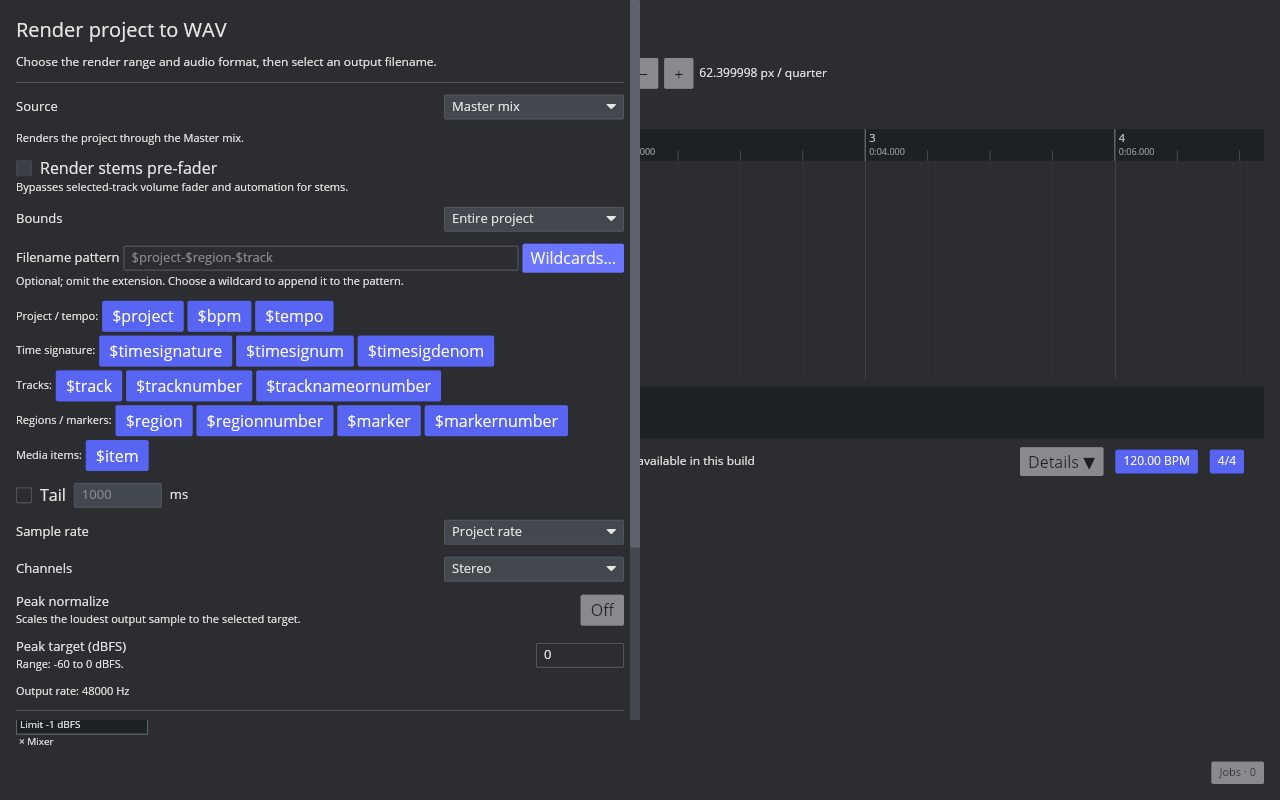
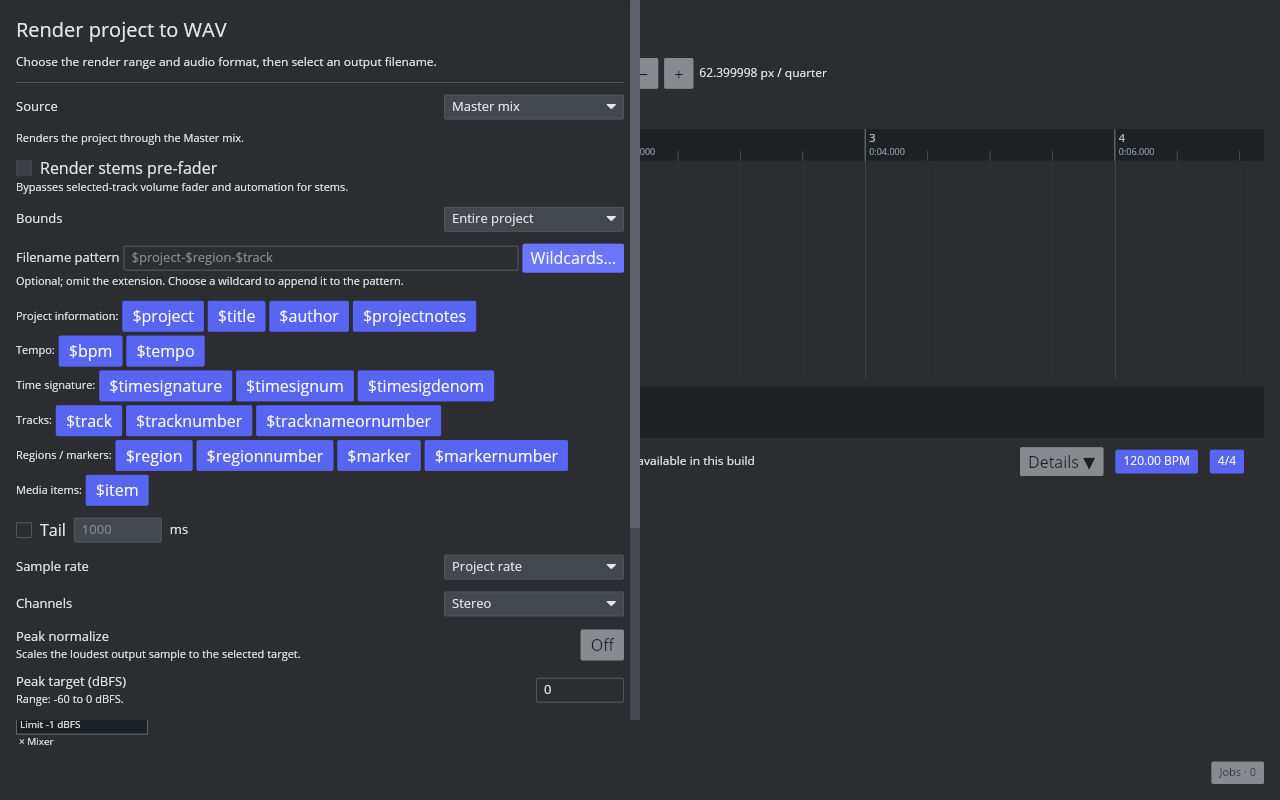
feat(render): add project metadata wildcards

Changed region(s): [[0.0, 0.375, 0.4688, 0.7188], [0.3438, 0.625, 0.5, 0.8438], [0.0, 0.75, 0.2188, 0.9062]]

diff --git a/crates/aaadaw/src/app/audio_export.rs b/crates/aaadaw/src/app/audio_export.rs
@@ -44,6 +44,9 @@ pub(crate) enum RenderSource {
 #[derive(Clone, Copy, Debug, Eq, PartialEq)]
 pub(crate) enum RenderFilenameWildcard {
     Project,
+    Title,
+    Author,
+    ProjectNotes,
     Tempo,
     TimeSignature,
     TimeSigNum,
@@ -60,8 +63,11 @@ pub(crate) enum RenderFilenameWildcard {
 }
 
 impl RenderFilenameWildcard {
-    pub(crate) const ALL: [Self; 14] = [
+    pub(crate) const ALL: [Self; 17] = [
         Self::Project,
+        Self::Title,
+        Self::Author,
+        Self::ProjectNotes,
         Self::Bpm,
         Self::Tempo,
         Self::TimeSignature,
@@ -80,6 +86,9 @@ impl RenderFilenameWildcard {
     pub(crate) const fn token(self) -> &'static str {
         match self {
             Self::Project => "$project",
+            Self::Title => "$title",
+            Self::Author => "$author",
+            Self::ProjectNotes => "$projectnotes",
             Self::Tempo => "$tempo",
             Self::TimeSignature => "$timesignature",
             Self::TimeSigNum => "$timesignum",
@@ -733,16 +742,16 @@ fn expand_render_filename_pattern(
         .and_then(|track_id| project.tracks().iter().find(|track| track.id() == track_id))
         .map(|track| {
             if track.name().is_empty() {
-                track_number_text.as_str()
+                format!("Track {track_number_text}")
             } else {
-                track.name()
+                track.name().to_owned()
             }
         })
         .unwrap_or_else(|| {
             if settings.source == aaadaw_app::ProjectWavRenderSource::MasterMix {
-                "Master"
+                "Master".to_owned()
             } else {
-                ""
+                String::new()
             }
         });
     let item_name = match settings.source {
@@ -820,13 +829,16 @@ fn expand_render_filename_pattern(
             .to_ascii_lowercase();
         match token.as_str() {
             "project" => result.push_str(project_name),
+            "title" => result.push_str(&project.project_notes().title),
+            "author" => result.push_str(&project.project_notes().author),
+            "projectnotes" => result.push_str(&project.project_notes().text),
             "tempo" => result.push_str(&bpm_text),
             "timesignature" => result.push_str(&time_signature_text),
             "timesignum" => result.push_str(&time_signature.numerator().to_string()),
             "timesigdenom" => result.push_str(&time_signature.denominator().to_string()),
             "track" => result.push_str(track_name),
             "tracknumber" => result.push_str(&track_number_text),
-            "tracknameornumber" => result.push_str(track_name_or_number),
+            "tracknameornumber" => result.push_str(&track_name_or_number),
             "region" => result.push_str(region.map_or("", |region| region.name())),
             "regionnumber" => result.push_str(&region_number_text),
             "marker" => result.push_str(marker.map_or("", |(_, marker)| marker.name())),
@@ -2413,7 +2425,7 @@ mod tests {
     use super::super::offline_job_queue::OfflineJobQueue;
     use super::super::offline_job_queue::QueuedOfflineJob;
     use super::*;
-    use aaadaw_core::DawAction;
+    use aaadaw_core::{DawAction, ProjectNotes};
 
     #[test]
     fn render_filename_patterns_expand_native_wildcard_contexts_safely() {
@@ -2447,6 +2459,16 @@ mod tests {
                 name: "Start".to_owned(),
             })
             .expect("filename fixture marker should be inserted");
+        project
+            .apply(DawAction::SetProjectNotes {
+                notes: ProjectNotes {
+                    title: "Session title".to_owned(),
+                    author: "Render author".to_owned(),
+                    text: "Mix notes".to_owned(),
+                    ..ProjectNotes::default()
+                },
+            })
+            .expect("filename fixture project notes should be set");
         let settings = |source| aaadaw_app::ProjectWavRenderSettings {
             master_ceiling: aaadaw_engine::MasterOutputCeiling::default(),
             export_options: aaadaw_app::WavExportOptions::default(),
@@ -2468,7 +2490,7 @@ mod tests {
                 )),
                 output.clone(),
             )],
-            "$project-$region-$regionnumber-$marker-$markernumber-$track-$tracknumber-$tracknameornumber-$bpm-$tempo-$timesignature-$timesignum-$timesigdenom",
+            "$project-$title-$author-$projectnotes-$region-$regionnumber-$marker-$markernumber-$track-$tracknumber-$tracknameornumber-$bpm-$tempo-$timesignature-$timesignum-$timesigdenom",
             &project,
             project_path,
         )
@@ -2476,7 +2498,7 @@ mod tests {
         assert_eq!(
             track_output[0].1,
             Path::new(
-                "/renders/session-Intro-01-Start-01-Drums_Kit-01-Drums_Kit-120-120-4-4-4-4.wav"
+                "/renders/session-Session title-Render author-Mix notes-Intro-01-Start-01-Drums_Kit-01-Drums_Kit-120-120-4-4-4-4.wav"
             )
         );
 
@@ -2494,6 +2516,30 @@ mod tests {
         )
         .expect("region and item tokens should resolve");
         assert_eq!(item_output[0].1, Path::new("/renders/Intro-item_01.wav"));
+
+        project
+            .apply(DawAction::CreateTrack {
+                index: 1,
+                name: String::new(),
+            })
+            .expect("an unnamed filename fixture track should be created");
+        let unnamed_track_id = project.tracks()[1].id();
+        let unnamed_track_output = apply_render_filename_pattern(
+            vec![(
+                settings(aaadaw_app::ProjectWavRenderSource::SelectedTrackStem(
+                    unnamed_track_id,
+                )),
+                Path::new("/renders/base.wav").to_owned(),
+            )],
+            "$tracknameornumber",
+            &project,
+            project_path,
+        )
+        .expect("unnamed tracks should resolve to their numbered display name");
+        assert_eq!(
+            unnamed_track_output[0].1,
+            Path::new("/renders/Track 02.wav")
+        );
     }
 
     #[test]
@@ -2502,6 +2548,9 @@ mod tests {
             RenderFilenameWildcard::ALL.map(RenderFilenameWildcard::token),
             [
                 "$project",
+                "$title",
+                "$author",
+                "$projectnotes",
                 "$bpm",
                 "$tempo",
                 "$timesignature",

diff --git a/crates/aaadaw/src/app/view/render.rs b/crates/aaadaw/src/app/view/render.rs
@@ -204,24 +204,28 @@ pub(super) fn view(app: &App) -> Element<'_, Message> {
         if app.render_dialog.wildcard_menu_open {
             column![
                 wildcard_group_row(
-                    "Project / tempo:",
-                    RenderFilenameWildcard::ALL.into_iter().take(3),
+                    "Project information:",
+                    RenderFilenameWildcard::ALL.into_iter().take(4),
+                ),
+                wildcard_group_row(
+                    "Tempo:",
+                    RenderFilenameWildcard::ALL.into_iter().skip(4).take(2),
                 ),
                 wildcard_group_row(
                     "Time signature:",
-                    RenderFilenameWildcard::ALL.into_iter().skip(3).take(3),
-                ),
-                wildcard_group_row(
-                    "Tracks:",
                     RenderFilenameWildcard::ALL.into_iter().skip(6).take(3),
                 ),
                 wildcard_group_row(
+                    "Tracks:",
+                    RenderFilenameWildcard::ALL.into_iter().skip(9).take(3),
+                ),
+                wildcard_group_row(
                     "Regions / markers:",
-                    RenderFilenameWildcard::ALL.into_iter().skip(9).take(4),
+                    RenderFilenameWildcard::ALL.into_iter().skip(12).take(4),
                 ),
                 wildcard_group_row(
                     "Media items:",
-                    RenderFilenameWildcard::ALL.into_iter().skip(13),
+                    RenderFilenameWildcard::ALL.into_iter().skip(16),
                 ),
             ]
             .spacing(tokens::SPACING_XS)

diff --git a/docs/verification/reaper-parity/render-filename-patterns.md b/docs/verification/reaper-parity/render-filename-patterns.md
@@ -2,10 +2,10 @@
 
 Linux REAPER 7.82 / Default 7 places a `File name` pattern field and `Wildcards` button in the Render window. The captured selected-item case uses `$region-$item` and resolves to `bounds-ui-Region 2-item_02.wav`; the reference dialog and measured output are archived in [the native screenshot](images/render-selected-items-native.png) and [the output record](render-selected-items-native.tsv). The native Region Render Matrix fixture uses `$region-$track` and emits `Intro-Master.wav`, `Intro-Drums.wav`, `Intro-Guitar.wav`, and `Verse-Bass.wav`.
 
-AAADAW now provides an optional filename-pattern field in its Render window and a grouped `Wildcards…` picker immediately below it. Its 14 implemented tokens are `$project`, `$bpm`, `$tempo`, `$timesignature`, `$timesignum`, `$timesigdenom`, `$track`, `$tracknumber`, `$tracknameornumber`, `$region`, `$regionnumber`, `$marker`, `$markernumber`, and `$item`. Selecting one appends it to the end of the pattern and closes the picker. A chosen output path supplies the directory and extension; a blank pattern retains the existing generated names. The resolver sanitizes characters unsafe in file names and rejects patterns that resolve multiple jobs to the same name before queueing. The Render job still publishes through the existing atomic batch writer.
+AAADAW now provides an optional filename-pattern field in its Render window and a grouped `Wildcards…` picker immediately below it. Its 17 implemented tokens are `$project`, `$title`, `$author`, `$projectnotes`, `$bpm`, `$tempo`, `$timesignature`, `$timesignum`, `$timesigdenom`, `$track`, `$tracknumber`, `$tracknameornumber`, `$region`, `$regionnumber`, `$marker`, `$markernumber`, and `$item`. These project metadata values come from the existing Project Notes model. Selecting a token appends it to the end of the pattern and closes the picker. A chosen output path supplies the directory and extension; a blank pattern retains the existing generated names. The resolver sanitizes characters unsafe in file names and rejects patterns that resolve multiple jobs to the same name before queueing. The Render job still publishes through the existing atomic batch writer.
 
-The [AAADAW filename-field capture](fixtures/render-filename-pattern-aaadaw.png), [expanded picker capture](fixtures/render-filename-pattern-wildcards-aaadaw.png), and [track-token insertion capture](fixtures/render-filename-pattern-wildcard-insert-aaadaw.png) were taken from the rebuilt desktop binary. The reproducible [capture script](../../../scripts/reaper_parity/capture-render-filename-pattern-aaadaw.sh) drives the visible Render command with Ctrl+Alt+R; set `AAADAW_OPEN_WILDCARDS=1` to capture the expanded picker, or `AAADAW_INSERT_WILDCARD=tracknumber` to click the visible token and capture the resulting field. Native UI probes accept `AAADAW_REAPER_WILDCARD_PATTERN` to replace their default `$region-$item` or `$marker-$item` pattern. Two additional native captures verify expansion in context: `$tracknumber-$tracknameornumber-$regionnumber-$tempo-$timesignature-$timesignum-$timesigdenom` produces `01-Render fixture-02-120-4-4-4-4.wav` for the selected item, and `$markernumber` produces `01.wav` for the first marker. See the [native context capture](fixtures/render-wildcards-context-native.png) and [native marker capture](fixtures/render-wildcards-marker-native.png). Screenshot hashes, native inputs, implementation tokens, and regression results are in the [fixture manifest](fixtures/render-filename-pattern-aaadaw.tsv).
+The [AAADAW filename-field capture](fixtures/render-filename-pattern-aaadaw.png), [expanded picker capture](fixtures/render-filename-pattern-wildcards-aaadaw.png), and [track-token insertion capture](fixtures/render-filename-pattern-wildcard-insert-aaadaw.png) were taken from the rebuilt desktop binary. The reproducible [capture script](../../../scripts/reaper_parity/capture-render-filename-pattern-aaadaw.sh) drives the visible Render command with Ctrl+Alt+R; set `AAADAW_OPEN_WILDCARDS=1` to capture the expanded picker, or `AAADAW_INSERT_WILDCARD=tracknumber` to click the visible token and capture the resulting field. Native UI probes accept `AAADAW_REAPER_WILDCARD_PATTERN` to replace their default pattern, and the selected-item probe can set Project Settings title, author, notes, and the fixture track name through its environment overrides and documented API fields. Native captures verify `$tracknumber-$tracknameornumber-$regionnumber-$tempo-$timesignature-$timesignum-$timesigdenom` as `01-Render fixture-02-120-4-4-4-4.wav`, `$markernumber` as `01.wav`, `$title-$author-$projectnotes` as `Wildcard Session-Render Author-Mix notes.wav`, and an empty track name with `$tracknameornumber` as `Track 01.wav`. See the [native context capture](fixtures/render-wildcards-context-native.png), [native marker capture](fixtures/render-wildcards-marker-native.png), [native metadata capture](fixtures/render-wildcards-metadata-native.png), and [unnamed-track capture](fixtures/render-wildcards-unnamed-track-native.png). Screenshot hashes, native inputs, implementation tokens, and regression results are in the [fixture manifest](fixtures/render-filename-pattern-aaadaw.tsv).
 
-The regression resolves the native `$region-$track` matrix pattern to the same four native target names, renders those jobs through AAADAW's offline audio renderer, and compares every PCM24 sample to the matching REAPER output. A second test resolves `$region-$item` to the observed `Intro-item_01.wav` form. The context-expansion regression checks the added track, region, tempo, and time-signature variables; separate cases cover `$project`, `$marker`, `$item`, `$bpm`, safe-name conversion, blank-pattern fallback, unknown literal tokens, and duplicate-name rejection. The queue test sets `$project-$track` through the Render message and checks that queued stem paths use the expanded project and track names; it also verifies duplicate names leave the queue unchanged. The picker regression covers all 14 visible tokens, appending the selected token, and closing the menu. See the manifest for current build, screenshot hashes, and validation counts.
+The regression resolves the native `$region-$track` matrix pattern to the same four native target names, renders those jobs through AAADAW's offline audio renderer, and compares every PCM24 sample to the matching REAPER output. A second test resolves `$region-$item` to the observed `Intro-item_01.wav` form. The context-expansion regression checks Project Notes title/author/text plus track, region, tempo, and time-signature values; an unnamed track resolves `$tracknameornumber` to the native `Track 02` form. The native unnamed-track render preview shows `Track 01.wav`. Separate cases cover `$project`, `$marker`, `$item`, `$bpm`, safe-name conversion, blank-pattern fallback, unknown literal tokens, and duplicate-name rejection. The queue test sets `$project-$track` through the Render message and checks that queued stem paths use the expanded project and track names; it also verifies duplicate names leave the queue unchanged. The picker regression covers all 17 visible tokens, appending the selected token, and closing the menu. See the manifest for current build, screenshot hashes, and validation counts.
 
-This does not complete REAPER Wildcards parity. The picker exposes a tested subset of the native token set and appends at the pattern end; insertion at the caret or over a selection, project/region/marker/item notes and name expressions, folders/parent/FX, positions and timecode, recording names, output format/channels, date/time/unique IDs, computer/user values, REAPER's full ordering and escaping rules, pattern presets and cross-launch persistence, native collision prompts, and remaining source/range combinations are open. The native context captures directly verify track number/name, region number, tempo, time signature components, and marker number. `$marker` text/name expansion and many source-dependent values still need native comparisons. `RENDER-WILDCARDS-001`, `RENDER-SOURCE-001`, and `UI-028` remain `in_progress`.
+This does not complete REAPER Wildcards parity. The picker exposes a tested subset of the native token set and appends at the pattern end; insertion at the caret or over a selection, `$projectnotes(name)` and named-note parsing, project directory variants, region/marker/item note and name expressions, folders/parent/FX, positions and timecode, recording names, output format/channels, date/time/unique IDs, computer/user values, REAPER's full ordering and escaping rules, pattern presets and cross-launch persistence, native collision prompts, and remaining source/range combinations are open. The native context captures directly verify track number/name, region number, tempo, time signature components, marker number, and project title/author/notes. `$marker` text/name expansion and many source-dependent values still need native comparisons. `RENDER-WILDCARDS-001`, `RENDER-SOURCE-001`, and `UI-028` remain `in_progress`.

diff --git a/docs/verification/reaper-parity/render-source.md b/docs/verification/reaper-parity/render-source.md
@@ -20,7 +20,7 @@ AAADAW stores a Master-mix boolean and ordered TrackId list per project region i
 
 The Render Source menu now offers `Region Render Matrix` with All/Selected Project Regions bounds. The existing atomic batch-render queue builds one output for each assigned Master row and one for each assigned track row, and stores per-region ranges in each job. The native Linux REAPER 7.82 render action produced four outputs for this fixture: `Intro-Master.wav`, `Intro-Drums.wav`, `Intro-Guitar.wav`, and `Verse-Bass.wav`; unassigned target/region pairs produced no files. All four files were 48 kHz stereo PCM24 with 96,000 frames. The [source generator](../../../scripts/reaper_parity/generate-region-render-matrix-sources.py), [ReaScript render probe](../../../scripts/reaper_parity/probe-region-render-matrix-render.lua), [native output table](fixtures/region-render-matrix-render-native.tsv), and [PCM fixtures](fixtures/region-render-matrix-render/) preserve the setup, metadata, hashes, and payloads. An AAADAW regression renders the same four target jobs and compares every PCM payload byte-for-byte with the corresponding native fixture; output format, frame count, and sample values also match exactly.
 
-The Render window now has an optional filename-pattern field and a grouped `Wildcards…` picker for 14 implemented tokens: `$project`, `$bpm`, `$tempo`, `$timesignature`, `$timesignum`, `$timesigdenom`, `$track`, `$tracknumber`, `$tracknameornumber`, `$region`, `$regionnumber`, `$marker`, `$markernumber`, and `$item`; choosing a token appends it to the pattern. A native selected-item Render probe confirms `$tracknumber-$tracknameornumber-$regionnumber-$tempo-$timesignature-$timesignum-$timesigdenom` resolves to `01-Render fixture-02-120-4-4-4-4.wav`, and the marker probe confirms `$markernumber` resolves to `01.wav`. For the tested `$region-$track` pattern, AAADAW emits the native names `Intro-Master.wav`, `Intro-Drums.wav`, `Intro-Guitar.wav`, and `Verse-Bass.wav`; its offline renderer still matches all four native PCM payloads byte-for-byte. The native `$region-$item` case resolves to `bounds-ui-Region 2-item_02.wav`, and AAADAW resolves the same token pair to the observed item-name form. Blank patterns keep the existing generated output names. Caret/selection insertion, the complete token and escaping rules, preset persistence, and more source/range combinations remain open; see [filename wildcard verification](render-filename-patterns.md). The simple fixture confirms the tested track signal and Master sum, but not pre/post-fader settings, automation, folders/sends, or FX routing. Those gaps keep `RENDER-SOURCE-001` and `PROJECT-REGIONS-001` `in_progress`.
+The Render window now has an optional filename-pattern field and a grouped `Wildcards…` picker for 17 implemented tokens: `$project`, `$title`, `$author`, `$projectnotes`, `$bpm`, `$tempo`, `$timesignature`, `$timesignum`, `$timesigdenom`, `$track`, `$tracknumber`, `$tracknameornumber`, `$region`, `$regionnumber`, `$marker`, `$markernumber`, and `$item`; choosing a token appends it to the pattern. The existing Project Notes title, author, and text fields drive the three new metadata variables. A native selected-item Render probe confirms `$title-$author-$projectnotes` resolves to `Wildcard Session-Render Author-Mix notes.wav`; `$tracknumber-$tracknameornumber-$regionnumber-$tempo-$timesignature-$timesignum-$timesigdenom` resolves to `01-Render fixture-02-120-4-4-4-4.wav`, and the marker probe confirms `$markernumber` resolves to `01.wav`. REAPER's changelog specifies that an unnamed track resolves `$tracknameornumber` to `Track NN`; a fresh native dialog shows an empty track name resolving to `Track 01.wav`, which AAADAW now matches. The native context, metadata, marker, and unnamed-track screenshots are in the filename wildcard fixture set. For the tested `$region-$track` pattern, AAADAW emits the native names `Intro-Master.wav`, `Intro-Drums.wav`, `Intro-Guitar.wav`, and `Verse-Bass.wav`; its offline renderer still matches all four native PCM payloads byte-for-byte. The native `$region-$item` case resolves to `bounds-ui-Region 2-item_02.wav`, and AAADAW resolves the same token pair to the observed item-name form. Blank patterns keep the existing generated output names. Caret/selection insertion, named project-note parsing, the complete token and escaping rules, preset persistence, and more source/range combinations remain open; see [filename wildcard verification](render-filename-patterns.md). The simple fixture confirms the tested track signal and Master sum, but not pre/post-fader settings, automation, folders/sends, or FX routing. Those gaps keep `RENDER-SOURCE-001` and `PROJECT-REGIONS-001` `in_progress`.
 
 ### Selected media items
 
